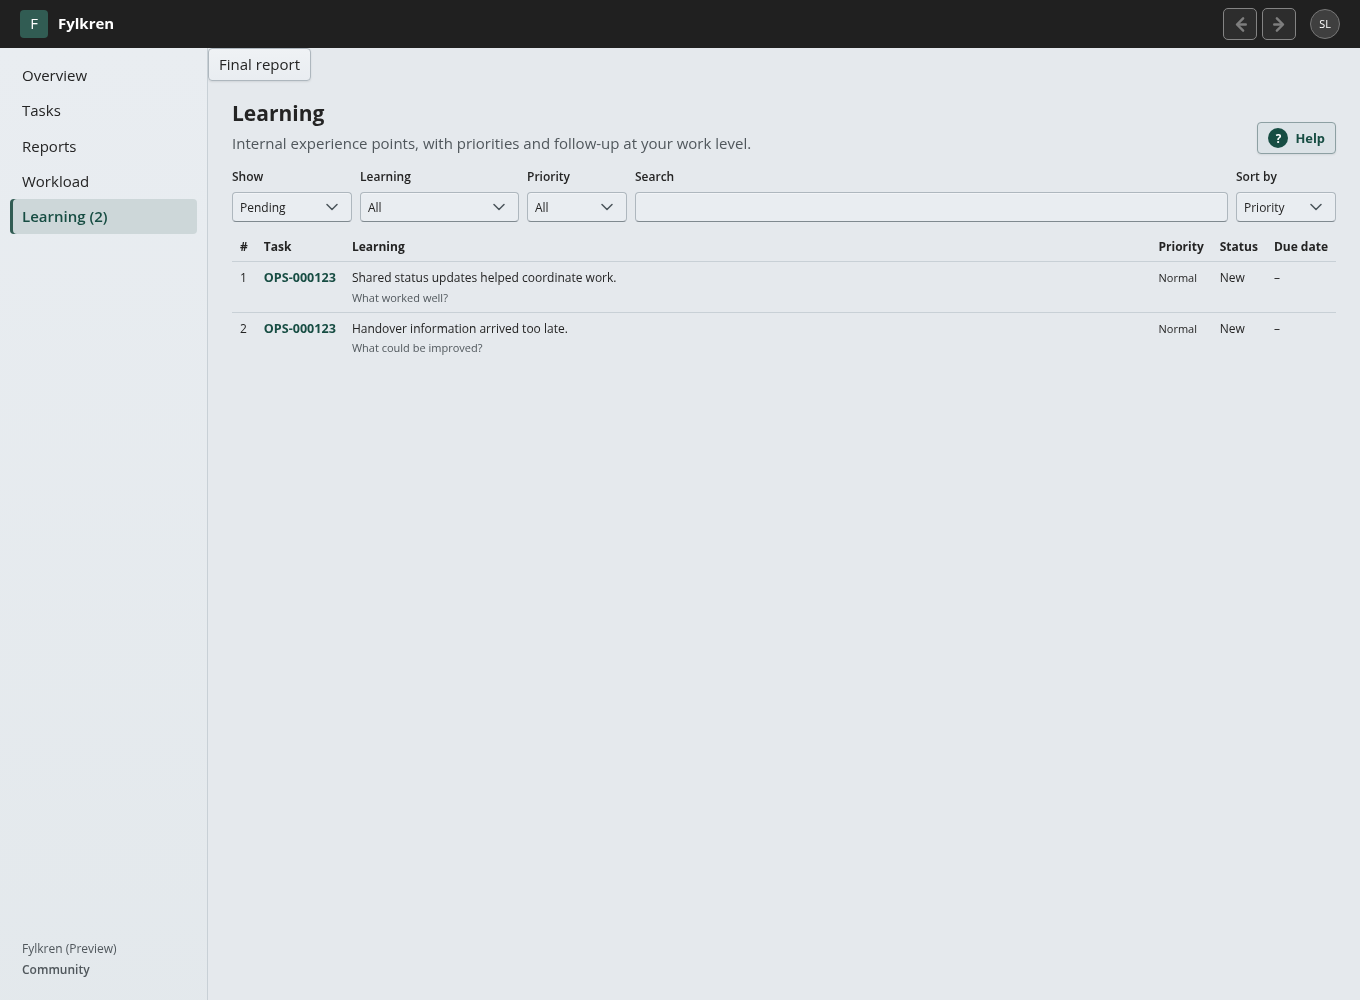
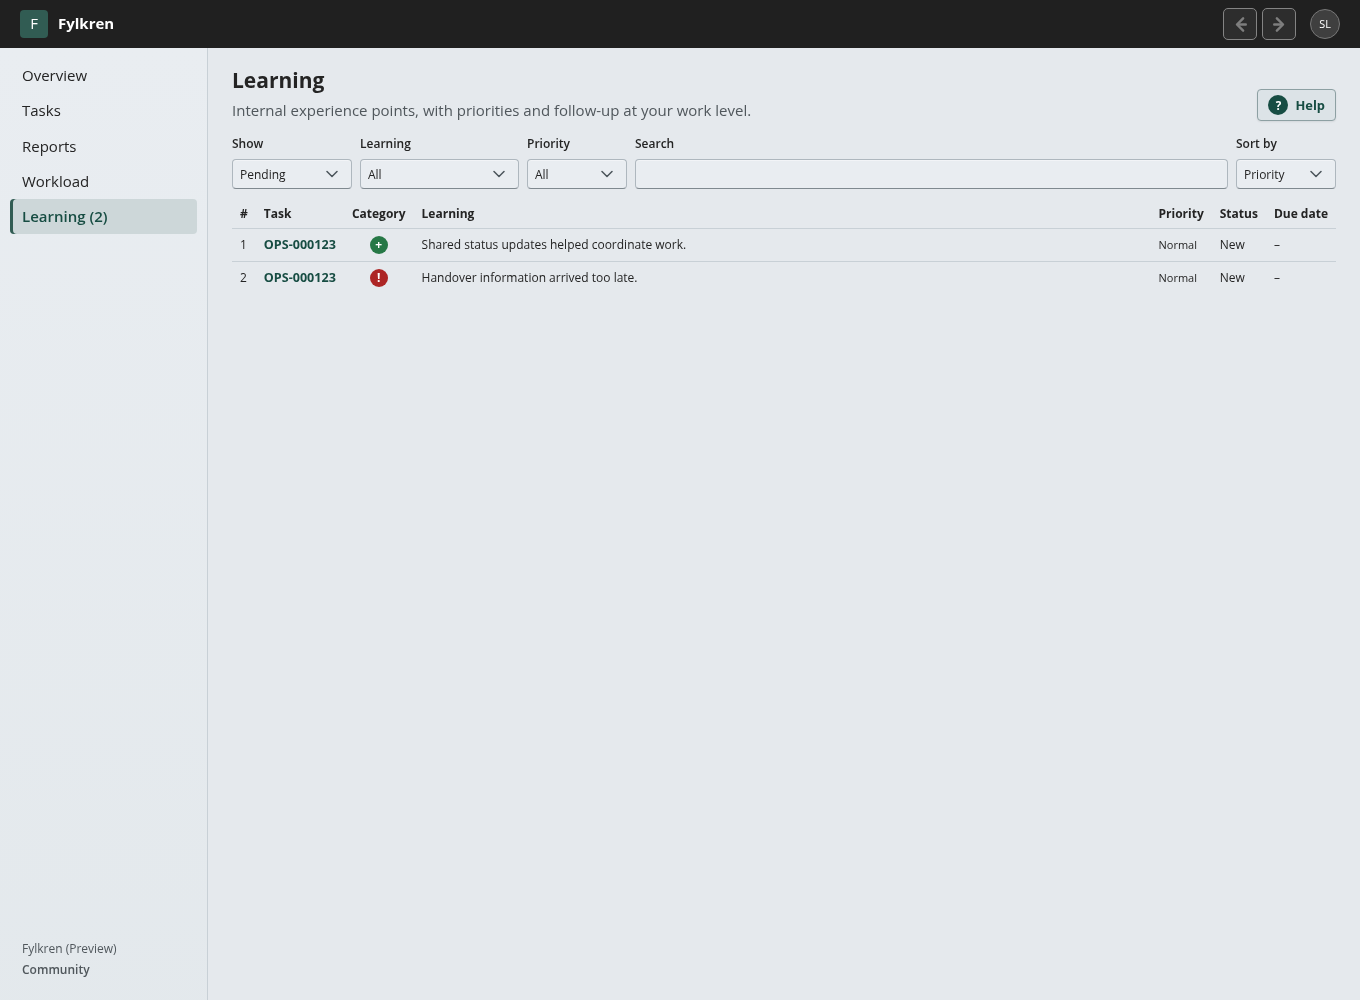
fix: separate learning list numbering and show category indicators

Changed region(s): [[0.1544, 0.062, 0.5559, 0.372], [0.8338, 0.093, 0.9882, 0.248], [0.8956, 0.31, 0.9265, 0.341]]

diff --git a/apps/web/src/learning/LearningPage.tsx b/apps/web/src/learning/LearningPage.tsx
@@ -64,9 +64,10 @@ export function LearningPage({ language, timeZone, permalink }: { language: stri
     {error && <p className="status-message error-message" role="alert">{error}</p>}
     {loading && <p className="muted" role="status">{t("loading")}</p>}
     {!loading && !error && data?.items.length === 0 && <p className="empty-list-message">{t("learningEmpty")}</p>}
-    {!!data?.items.length && <div className="learning-table-scroll" aria-busy={loading}><table className="learning-table"><thead><tr><th>#</th><th>{t("approvalTask")}</th><th>{t("navLearning")}</th><th>{t("learningPriority")}</th><th>{t("approvalStatus")}</th><th>{t("riskDueDate")}</th></tr></thead><tbody>{data.items.map(lesson => <tr key={lesson.id}>
+    {!!data?.items.length && <div className="learning-table-scroll" aria-busy={loading}><table className="learning-table"><thead><tr><th>#</th><th>{t("approvalTask")}</th><th>{t("learningKind")}</th><th>{t("navLearning")}</th><th>{t("learningPriority")}</th><th>{t("approvalStatus")}</th><th>{t("riskDueDate")}</th></tr></thead><tbody>{data.items.map(lesson => <tr key={lesson.id}>
       <td>{lesson.number}</td><td><a href={buildAppHash({ page: "Tasks", siteId: lesson.siteId, itemId: lesson.workItemId })} title={lesson.workTitle}><WorkReference referenceCode={lesson.workReference}/></a></td>
-      <td><button className="learning-point-title" type="button" onClick={() => setSelected(lesson)}>{lesson.text}</button><small className="muted">{t(lesson.kind === "positive" ? "learningPositive" : "learningImprovement")}{lesson.ownerName ? ` · ${lesson.ownerName}` : ""}</small></td>
+      <td className="learning-kind-cell"><span className={`learning-kind-light learning-kind-${lesson.kind}`} role="img" aria-label={t(lesson.kind === "positive" ? "learningPositive" : "learningImprovement")} title={t(lesson.kind === "positive" ? "learningPositive" : "learningImprovement")}><span aria-hidden="true">{lesson.kind === "positive" ? "+" : "!"}</span></span></td>
+      <td><button className="learning-point-title" type="button" onClick={() => setSelected(lesson)}>{lesson.text}</button>{lesson.ownerName && <small className="muted">{lesson.ownerName}</small>}</td>
       <td><span className={`learning-priority learning-priority-${lesson.priority}`}>{t(lessonPriorityKeys[lesson.priority])}</span></td><td>{t(lessonStatusKeys[lesson.status])}</td>
       <td className={lesson.dueOn && lesson.dueOn < today && ["new", "in_progress"].includes(lesson.status) ? "learning-overdue" : ""}>{lesson.dueOn ? new Date(`${lesson.dueOn}T12:00:00`).toLocaleDateString(language) : "–"}</td>
     </tr>)}</tbody></table></div>}

diff --git a/apps/web/src/learning/LessonDraftFields.tsx b/apps/web/src/learning/LessonDraftFields.tsx
@@ -9,8 +9,8 @@ export function LessonDraftFields({ drafts, saved, onChange, loading, error }: {
     {loading && <p className="muted">{t("loading")}</p>}
     {(["positive", "improvement"] as LessonKind[]).map(kind => <fieldset key={kind}>
       <legend>{t(kind === "positive" ? "learningPositive" : "learningImprovement")}</legend>
-      {saved.some(point => point.kind === kind) && <ol className="learning-saved-points" aria-label={t("learningSavedPoints")}>{saved.filter(point => point.kind === kind).map(point => <li key={point.id} value={point.number}>{point.text}</li>)}</ol>}
-      <ol className="learning-draft-points">{drafts.filter(point => point.kind === kind).map(point => <li key={point.id} value={Math.max(0, ...saved.map(value => value.number)) + drafts.findIndex(value => value.id === point.id) + 1}>
+      {saved.some(point => point.kind === kind) && <ol className="learning-saved-points" aria-label={t("learningSavedPoints")}>{saved.filter(point => point.kind === kind).sort((a, b) => a.number - b.number).map((point, index) => <li key={point.id} value={index + 1}>{point.text}</li>)}</ol>}
+      <ol className="learning-draft-points">{drafts.filter(point => point.kind === kind).map((point, index) => <li key={point.id} value={saved.filter(value => value.kind === kind).length + index + 1}>
         <textarea aria-label={t(kind === "positive" ? "learningPositive" : "learningImprovement")} value={point.text} required minLength={2} maxLength={4000} rows={2} onChange={event => onChange(drafts.map(value => value.id === point.id ? { ...value, text: event.target.value } : value))}/>
         <button className="text-button" type="button" onClick={() => onChange(drafts.filter(value => value.id !== point.id))}>{t("remove")}</button>
       </li>)}</ol>

diff --git a/shared/frontend/src/learning.css b/shared/frontend/src/learning.css
@@ -8,8 +8,12 @@
 .learning-table { width: 100%; min-width: 680px; border-collapse: collapse; font-size: 12px; }
 .learning-table th { text-align: left; padding: 6px 8px; white-space: nowrap; }
 .learning-table td { padding: 7px 8px; vertical-align: top; border-top: 1px solid var(--border); }
-.learning-table td:nth-child(3) { width: 100%; min-width: 220px; }
-.learning-table td:not(:nth-child(3)) { white-space: nowrap; }
+.learning-table td:nth-child(4) { width: 100%; min-width: 220px; }
+.learning-table td:not(:nth-child(4)) { white-space: nowrap; }
+.learning-table .learning-kind-cell { text-align: center; }
+.learning-kind-light { display: inline-flex; align-items: center; justify-content: center; width: 18px; height: 18px; border-radius: 50%; color: #fff; font-weight: 700; line-height: 1; }
+.learning-kind-positive { background: #267846; }
+.learning-kind-improvement { background: #ad2525; }
 .learning-table td small { display: block; margin-top: 3px; font-size: 11px; }
 .learning-table a { color: inherit; text-decoration: none; }
 .learning-point-title { display: -webkit-box; -webkit-line-clamp: 2; -webkit-box-orient: vertical; overflow: hidden; line-height: 1.4; padding: 0; background: none; border: 0; text-align: left; color: inherit; font: inherit; cursor: pointer; white-space: pre-wrap; overflow-wrap: anywhere; }

diff --git a/apps/web/src/localization/catalogs/uk-UA/sections/learning.ts b/apps/web/src/localization/catalogs/uk-UA/sections/learning.ts
@@ -1,4 +1,5 @@
 export const learning = {
+  "learningKind": "Категорія",
   "navLearning": "Навчання",
   "learningIntro": "Внутрішні висновки з пріоритетами та подальшими діями на вашому робочому рівні.",
   "learningInternal": "Внутрішні висновки зберігаються окремо й не входять до підсумкових звітів або звітів вищим рівням.",

diff --git a/apps/web/src/localization/catalogs/pt-PT/sections/learning.ts b/apps/web/src/localization/catalogs/pt-PT/sections/learning.ts
@@ -1,4 +1,5 @@
 export const learning = {
+  "learningKind": "Categoria",
   "navLearning": "Aprendizagem",
   "learningIntro": "Lições internas com prioridades e acompanhamento no seu nível de trabalho.",
   "learningInternal": "As lições internas são guardadas separadamente e não são incluídas nos relatórios finais nem nos relatórios a níveis superiores.",

diff --git a/apps/web/src/localization/catalogs/ro-RO/sections/learning.ts b/apps/web/src/localization/catalogs/ro-RO/sections/learning.ts
@@ -1,4 +1,5 @@
 export const learning = {
+  "learningKind": "Categorie",
   "navLearning": "Învățare",
   "learningIntro": "Lecții interne cu priorități și urmărire la nivelul dumneavoastră de lucru.",
   "learningInternal": "Lecțiile interne sunt păstrate separat și nu sunt incluse în rapoartele finale sau în rapoartele către nivelurile superioare.",

diff --git a/apps/web/src/localization/catalogs/de-DE/sections/learning.ts b/apps/web/src/localization/catalogs/de-DE/sections/learning.ts
@@ -1,4 +1,5 @@
 export const learning = {
+  "learningKind": "Kategorie",
   "navLearning": "Lernen",
   "learningIntro": "Interne Erkenntnisse mit Prioritäten und Nachverfolgung auf Ihrer Arbeitsebene.",
   "learningInternal": "Interne Erkenntnisse werden getrennt gespeichert und nicht in Abschlussberichte oder Berichte an höhere Ebenen aufgenommen.",

diff --git a/apps/web/src/localization/catalogs/fr-FR/sections/learning.ts b/apps/web/src/localization/catalogs/fr-FR/sections/learning.ts
@@ -1,4 +1,5 @@
 export const learning = {
+  "learningKind": "Catégorie",
   "navLearning": "Apprentissage",
   "learningIntro": "Enseignements internes, priorités et suivi à votre niveau de travail.",
   "learningInternal": "Les enseignements internes sont stockés séparément et exclus des rapports finaux et des rapports aux niveaux supérieurs.",

diff --git a/apps/web/src/localization/catalogs/lv-LV/sections/learning.ts b/apps/web/src/localization/catalogs/lv-LV/sections/learning.ts
@@ -1,4 +1,5 @@
 export const learning = {
+  "learningKind": "Kategorija",
   "navLearning": "Mācīšanās",
   "learningIntro": "Iekšējās atziņas ar prioritātēm un turpmākajām darbībām jūsu darba līmenī.",
   "learningInternal": "Iekšējās atziņas glabā atsevišķi un neiekļauj gala ziņojumā vai ziņojumos augstākiem līmeņiem.",

diff --git a/apps/web/src/localization/catalogs/pl-PL/sections/learning.ts b/apps/web/src/localization/catalogs/pl-PL/sections/learning.ts
@@ -1,4 +1,5 @@
 export const learning = {
+  "learningKind": "Kategoria",
   "navLearning": "Wnioski",
   "learningIntro": "Wewnętrzne wnioski z priorytetami i monitorowaniem na Twoim poziomie pracy.",
   "learningInternal": "Wewnętrzne wnioski są zapisywane oddzielnie i nie trafiają do raportów końcowych ani raportowania do wyższych poziomów.",

diff --git a/apps/web/src/localization/catalogs/it-IT/sections/learning.ts b/apps/web/src/localization/catalogs/it-IT/sections/learning.ts
@@ -1,4 +1,5 @@
 export const learning = {
+  "learningKind": "Categoria",
   "navLearning": "Apprendimento",
   "learningIntro": "Lezioni interne con priorità e monitoraggio al proprio livello di lavoro.",
   "learningInternal": "Le lezioni interne sono salvate separatamente e non sono incluse nei rapporti finali o nei rapporti ai livelli superiori.",

diff --git a/apps/web/src/localization/catalogs/et-EE/sections/learning.ts b/apps/web/src/localization/catalogs/et-EE/sections/learning.ts
@@ -1,4 +1,5 @@
 export const learning = {
+  "learningKind": "Kategooria",
   "navLearning": "Õppimine",
   "learningIntro": "Sisemised õppetunnid, prioriteedid ja järeltegevused teie töötasandil.",
   "learningInternal": "Sisemised õppetunnid salvestatakse eraldi ega kuulu lõpparuandesse või kõrgematele tasanditele esitatavasse aruandesse.",
